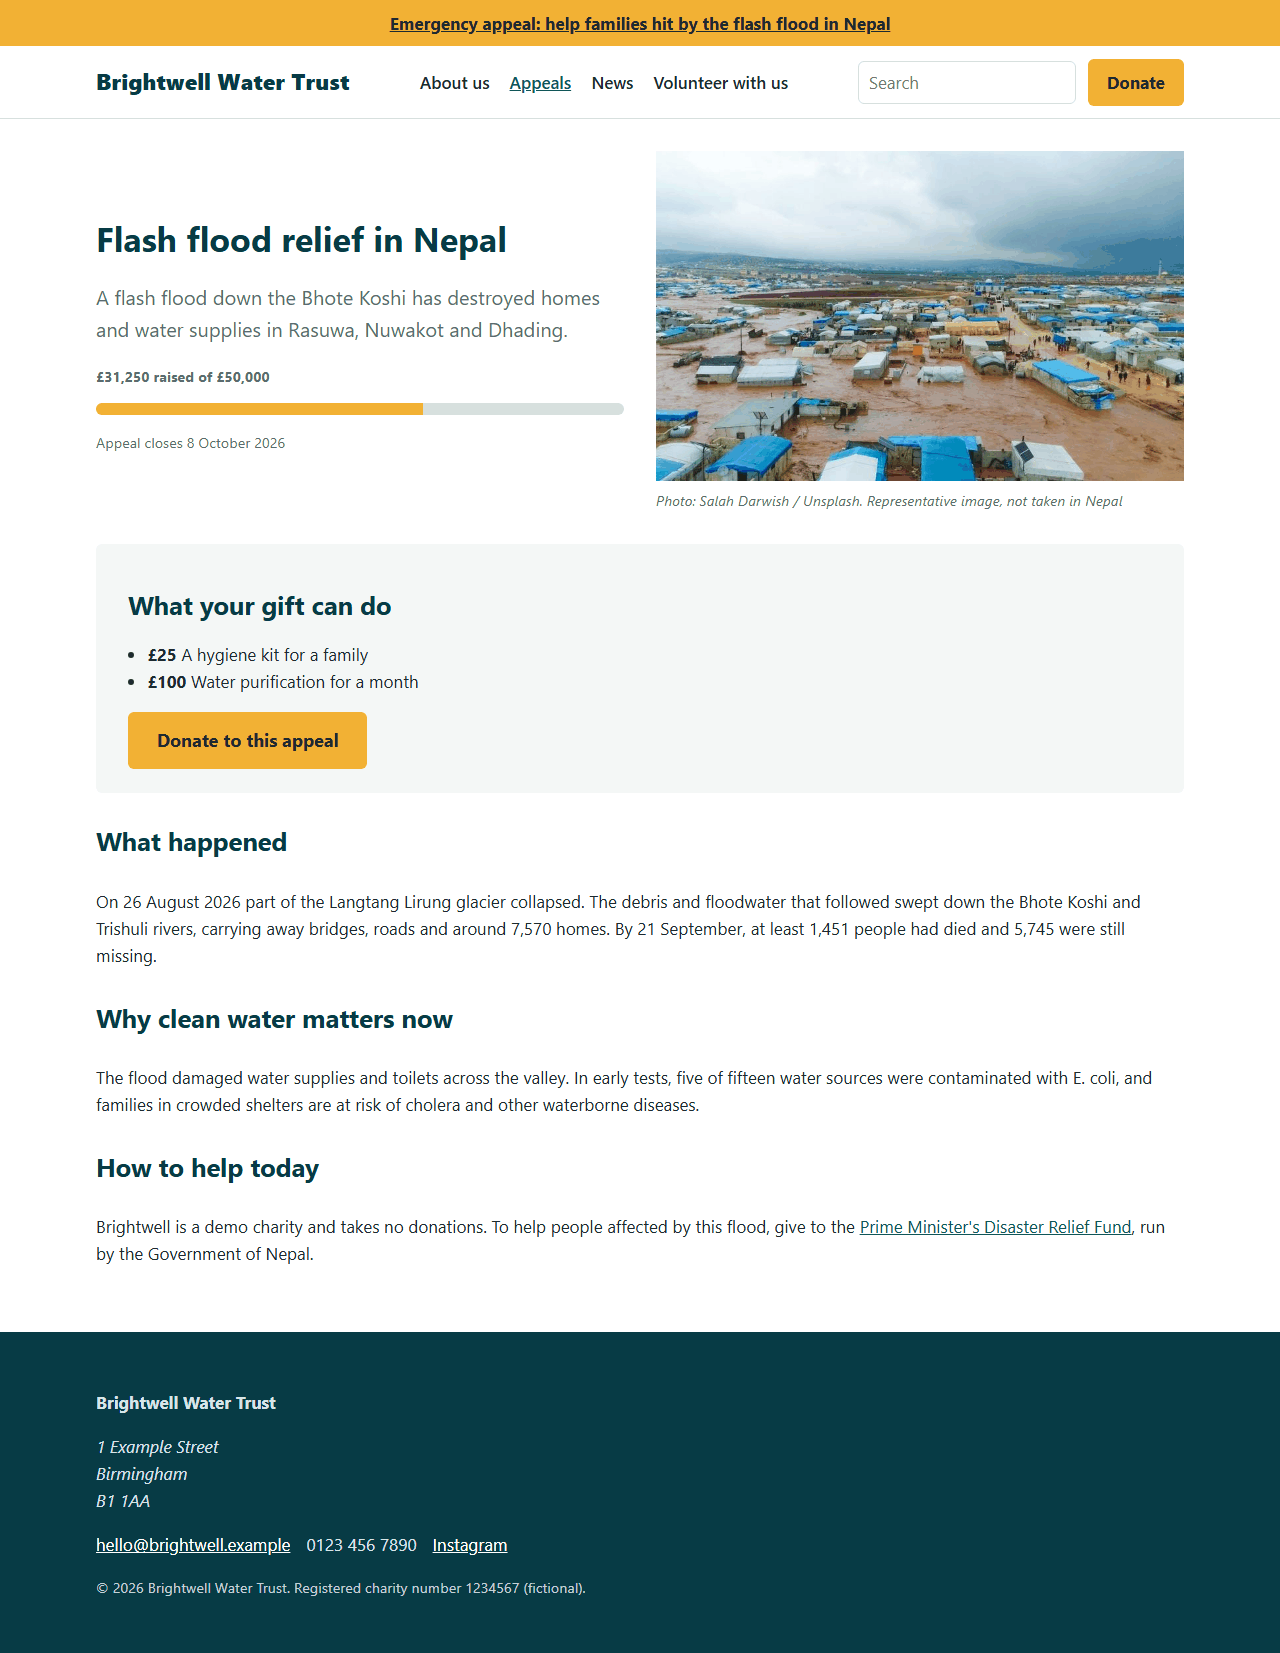
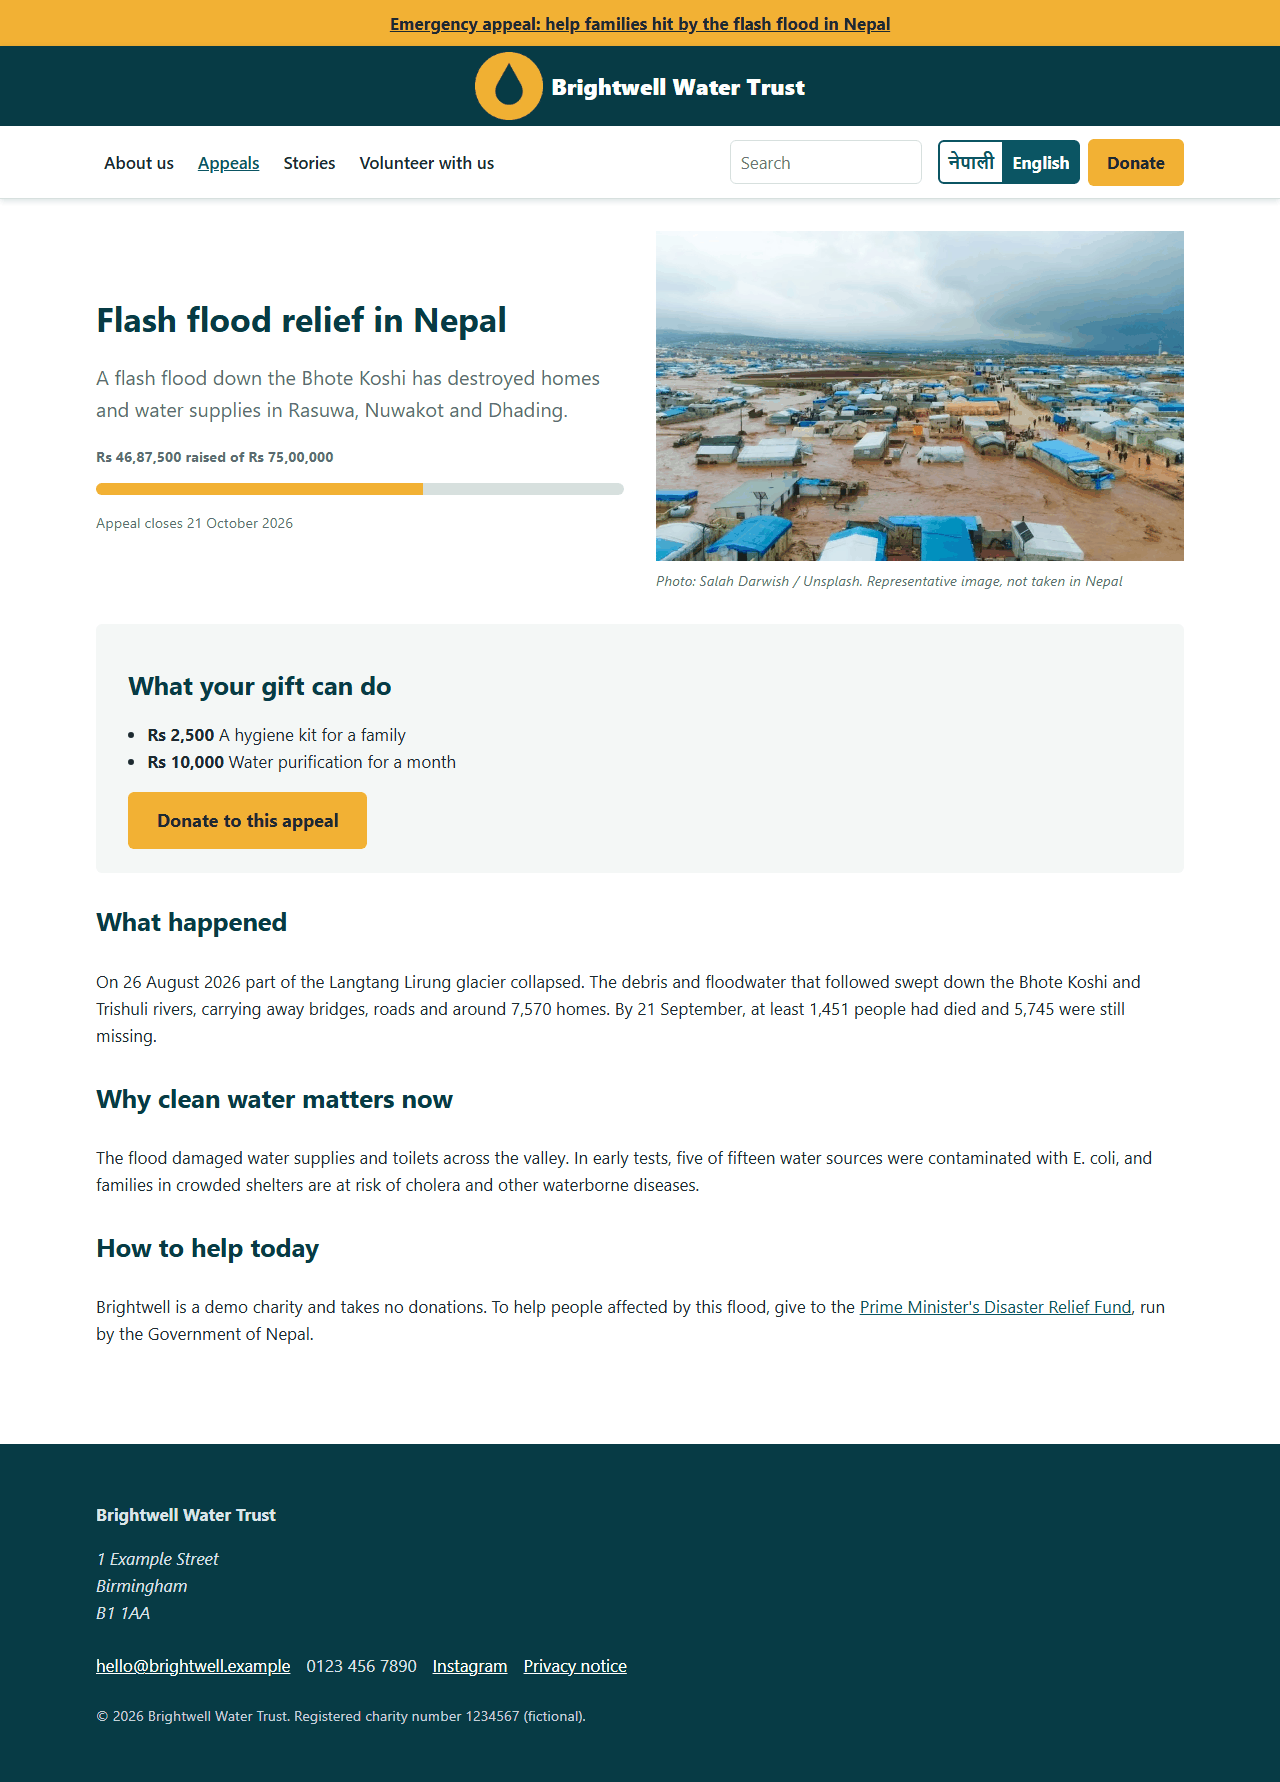
docs: retake the screenshots
They were taken on 29 September, before the language switch, the logo,
the two-row header, the privacy link and the Stories menu item. The
admin one shows a brand change previewed in Site settings instead of the
dashboard, whose fundraising panel counts translated appeals twice
(#195).

diff --git a/docs/site/index.md b/docs/site/index.md
@@ -3,9 +3,9 @@
 How each part of the site works: what it does for visitors and editors, why, the rules that
 come with it, and where its code is. Start with the overview.
 
-| An appeal | The admin's dashboard |
+| An appeal | Previewing a brand change in Site settings |
 |---|---|
-| ![An appeal page](../screenshots/campaign.png) | ![The admin dashboard with the fundraising panel](../screenshots/admin-dashboard.png) |
+| ![An appeal page](../screenshots/campaign.png) | ![Site settings, Brand tab, with an unsaved main colour shown in the phone preview](../screenshots/brand-preview.png) |
 
 ```{toctree}
 :maxdepth: 1
